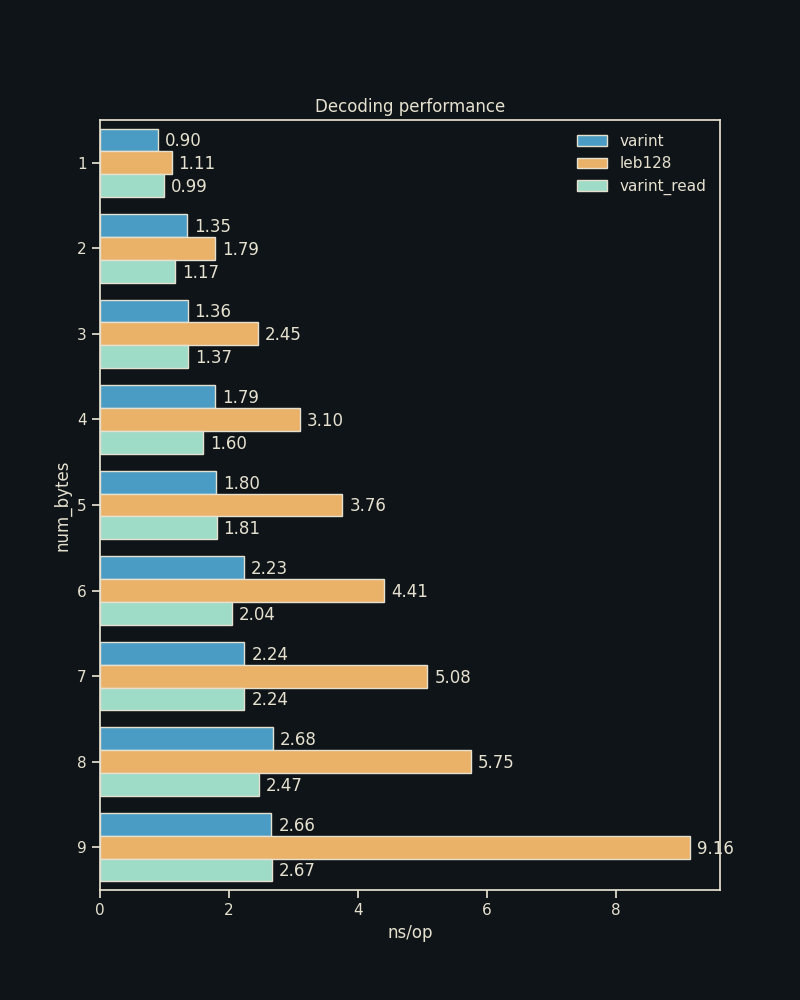
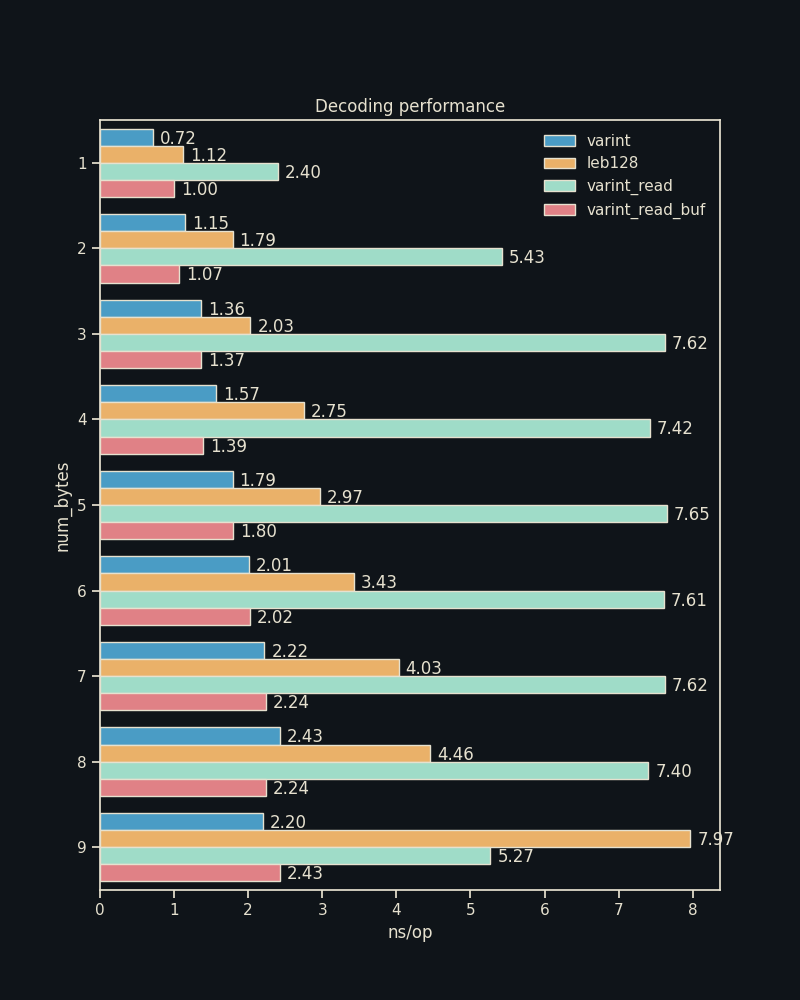
update image

Changed region(s): [[0.125, 0.124, 0.9062, 0.93], [0.6562, 0.124, 0.875, 0.217], [0.8438, 0.744, 0.875, 0.775]]

diff --git a/src/decoding.rs b/src/decoding.rs
@@ -1,4 +1,6 @@
-use prefix_uvarint::{read_prefix_varint_buf, PrefixVarIntBuf, PrefixVarIntBufMut};
+use prefix_uvarint::{
+    read_prefix_varint, read_prefix_varint_buf, PrefixVarIntBuf, PrefixVarIntBufMut,
+};
 use rand::{distributions::Uniform, prelude::Distribution, rngs::StdRng, SeedableRng};
 
 fn generate_array(len: usize, max_bytes: usize) -> Vec<u64> {
@@ -33,6 +35,7 @@ fn main() {
         bench_varint(max_bytes, NUM_OPS, &prefix_data);
         bench_leb128(max_bytes, NUM_OPS, &leb128);
         bench_varint_read(max_bytes, NUM_OPS, &prefix_data);
+        bench_varint_read_buf(max_bytes, NUM_OPS, &prefix_data);
         println!();
     }
 }
@@ -97,6 +100,28 @@ fn bench_varint_read(bytes: usize, ops: usize, input: &[u8]) {
 
 #[inline(always)]
 fn run_varint_read(mut input: &[u8], dst: &mut Vec<u64>, num_ops: usize) {
+    for _ in 0..num_ops {
+        let v = read_prefix_varint(&mut input).unwrap();
+        dst.push(v);
+    }
+}
+
+fn bench_varint_read_buf(bytes: usize, ops: usize, input: &[u8]) {
+    let mut buf = Vec::with_capacity(ops);
+    // warm up
+    run_varint_read_buf(input, &mut buf, ops);
+    buf.clear();
+
+    let before = std::time::Instant::now();
+    run_varint_read_buf(input, &mut buf, ops);
+    let after = std::time::Instant::now();
+    let ns_per_op = (after - before).as_nanos() as f64 / ops as f64;
+    let ns_per_byte = ns_per_op / bytes as f64;
+    pretty_print("varint_read_buf", ops, bytes, ns_per_op, ns_per_byte);
+}
+
+#[inline(always)]
+fn run_varint_read_buf(mut input: &[u8], dst: &mut Vec<u64>, num_ops: usize) {
     for _ in 0..num_ops {
         let v = read_prefix_varint_buf(&mut input).unwrap();
         dst.push(v);
